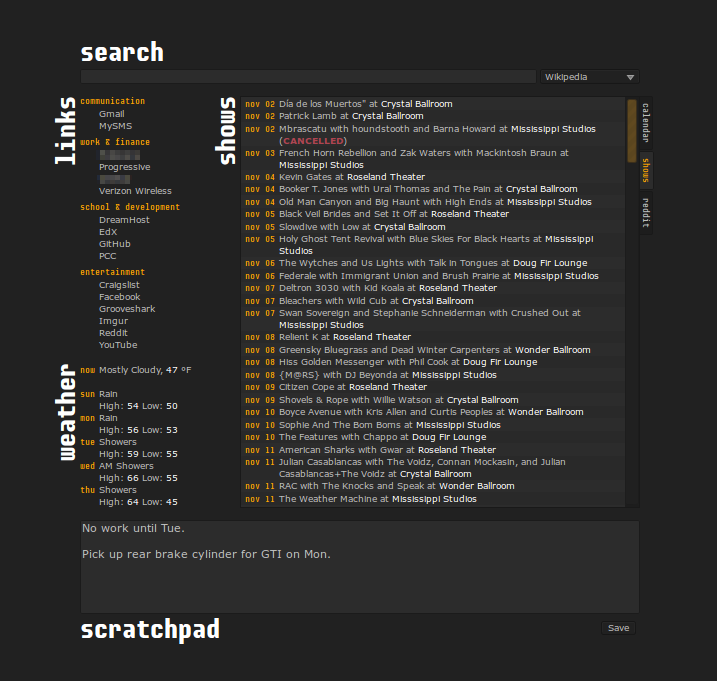
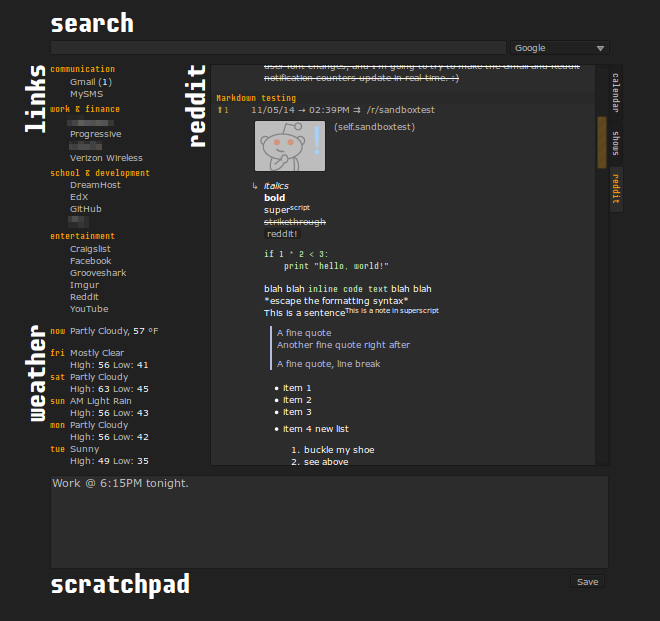
updates 11-07-2014

diff --git a/homepage/css/style.css b/homepage/css/style.css
@@ -1,8 +1,8 @@
 /* body, wrapper & grid foundation ---------------------------------- */
   * { line-height: 12px }
-  body { background: #212121; color: #BDBDBD; font: 7pt "Verdana"; margin: 0; padding: 18px 0 18px 0 }
+  body { background: #212121; color: #BDBDBD; font: 7pt "Verdana"; margin: 0; padding: 1.5em 0 1.5em 0 }
   div.wrapper { width: 100%; text-align: center }
-  div.grid { text-align: left; width: 560px; margin: 0 24px 0 24px }
+  div.grid { text-align: left; width: 560px; margin: 0 2em 0 2em }
 /* display types ---------------------------------------------------- */
   .table-row { display: table-row }
   .table-cell { display: table-cell }
@@ -11,10 +11,9 @@
   .inline, span.reddit-comment a { display: inline }
   #feed-loading, #feed-error-wrapper { display: none }
 /* dimensions ------------------------------------------------------- */
-  div.row-2 { height: 410px } /* changes the height of row 2 and it's column children */
-  div.label-vert { height: 0px }
-  div.tabs li { height: 12px }
+  div.label-vert { height: 0 }
   div.tabs { height: 14px }
+  div.tabs li { height: 12px }
   div.feed-tabbed iframe { height: 100% }
   div.col-1, div.col-2, div.feed-tabbed, div.feed-loading, div.feed-error-wrapper, div.feed-error { height: inherit }
   div.feed-shows div.table-cell, div.feed-reddit div.table-cell { width: 30px }
@@ -38,45 +37,52 @@
   div.col-1 div.label-vert { top: 80px; left: -108px }
   div.col-2 div.label-vert { top: 200px; left: -228px }
 /* margins & padding ------------------------------------------------ */
-  h1, h2, h3, ul, strong, div.feed-reddit blockquote { margin: 0 }
-  span.reddit-icon img { margin: 6px 0 0 0 }
-  div.feed-reddit p:first-child, span.reddit-comment pre:first-child, span.reddit-comment ul:first-child { margin-top: 0 }
-  div.row-3 iframe { margin-top: 2px }
-  div.scratchpad-wrapper button { margin-top: 6px }
-  div.row-2, div.row-3 { margin-top: 12px }
+  h1, h2, h3, ul, strong, div.feed-reddit blockquote, span.reddit-post p { margin: 0 }
+  span.reddit-icon img { margin: 0.5em 0 0 0 }
+  div.feed-reddit p:first-child, span.reddit-comment pre:first-child, span.reddit-comment ul:first-child, span.reddit-comment ul + p, span.reddit-comment p { margin-top: 0 }
+  div.row-3 iframe { margin-top: 0.16em }
+  div.scratchpad-wrapper button { margin-top: 0.5em }
+  div.row-2, div.row-3, span.reddit-comment hr { margin-top: 1em }
   div.tabs li { margin-right: 1px }
   div.feed-reddit p, span.reddit-comment pre:last-child, span.reddit-comment ul:last-child { margin-bottom: 0 }
-  span.reddit-icon img.post-link { margin-bottom: 6px }
-  span.reddit-comment blockquote { margin-left: 4px }
-  span.reddit-comment ul { margin-left: 24px }
+  span.reddit-icon img.post-link, span.reddit-comment ul li p { margin-bottom: 0.5em }
+  span.reddit-comment p { margin-bottom: 0.8em }
+  span.reddit-comment hr { margin-bottom: 1em}
+  span.reddit-comment blockquote { margin-left: 0.55em }
+  span.reddit-comment ul { margin-left: 2em }
   ul { padding: 0 }
-  div.list-links ul { padding: 0px 6px 6px 17px }
-  div.feed-weather div.table-cell, span.reddit-comment blockquote { padding: 0 0 0 4px }
-  div.feed-shows div.table-cell { padding: 0 2px 0 4px }
-  div.feed-reddit div.table-cell, div.tabs li, a.reddit-title-link { padding: 0 4px 0 4px }
-  h3 { padding: 6px 4px 6px 4px }
-  span.reddit-comment, span.reddit-post { padding: 6px 10px 6px 4px }
-  span.reddit-comment ul { padding: 6px 0 6px 0 }
-  div.feed-shows li a { padding: 0 10px 0 2px }
-  a { padding: 0 2px 0 2px }
-  div.feed-error { padding: 6px 28px 6px 28px }
+  div.list-links ul { padding: 0 0.5em 0.5em 1.85em }
+  div.feed-weather div.table-cell, span.reddit-comment blockquote { padding: 0 0 0 0.55em }
+  div.feed-shows div.table-cell { padding: 0 0.275em 0 0.55em }
+  div.feed-reddit div.table-cell, div.tabs li, a.reddit-title-link { padding: 0 0.55em 0 0.55em }
+  h3 { padding: 0.25em 0.16em 0.25em 0.16em }
+  span.reddit-comment, span.reddit-post { padding: 0.5em 0.833em 0 0.55em }
+  span.reddit-comment ul { padding: 0.5em 0 0.5em 0 }
+  div.feed-shows li a { padding: 0 0.833em 0 0.275em }
+  a { padding: 0 0.275em 0 0.275em }
+  div.feed-error { padding: 0.5em 2.33em 0.5em 2.33em }
+  span.reddit-comment th, span.reddit-comment td { padding: 0.16em 0.55em 0.16em 0.55em }
   span.reddit-comment pre:first-child, span.reddit-comment ul:first-child { padding-top: 0 }
   div.tabs li.tabs-selected, li.tabs-selected > a { padding-top: 1px }
-  div.scratchpad-wrapper { padding-right: 4px }
-  div.weather-error { padding-right: 4px }
+  div.scratchpad-wrapper { padding-right: 0.55em }
+  div.weather-error { padding-right: 0.55em }
   span.reddit-comment pre:last-child, span.reddit-comment ul:last-child { padding-bottom: 0 }
-  div.list-links { padding-bottom: 6px }
+  span.reddit-post p { padding-bottom: 0.33em }
+  div.list-links { padding-bottom: 0.5em }
+  div.weather-now { padding-bottom: 1em }
 /* borders ---------------------------------------------------------- */
   div.feed-tabbed, div.tabs li { border: 1px solid #191919 }
   input, textarea { border: 1px solid #1B1B1B }
   span.reddit-icon img { border: 1px solid #212121 }
-  span.reddit-icon a:hover img { border: 1px solid #3C3C3C }
+  span.reddit-icon a:hover img { border: 1px solid #96691A }
   span.reddit-comment blockquote { border-left: 2px solid #B5BAE1 }
+  span.reddit-comment hr { border-style: solid }
+  span.reddit-comment th, span.reddit-comment td { border: 1px solid #3C3C3C }
   div.tabs li { -webkit-border-radius: 2px 2px 0 0; -moz-border-radius: 2px 2px 0 0; border-radius: 2px 2px 0 0 }
-  span.reddit-comment a, span.reddit-post a, span.reddit-icon img, h3 a, a.reddit-sub, * input, * textarea, div.feeds { -webkit-border-radius: 2px; -moz-border-radius: 2px; border-radius: 2px }
+  span.reddit-comment table, span.reddit-comment a, span.reddit-post a, span.reddit-icon img, h3 a, a.reddit-sub, * input, * textarea, div.feeds, span.reddit-comment hr { -webkit-border-radius: 2px; -moz-border-radius: 2px; border-radius: 2px }
 /* background colors & images --------------------------------------- */
   div.feed-shows, div.feed-reddit, input, textarea, div.tabs li.tabs-selected, li.tabs-selected > a, div.feed-loading, div.feed-error-wrapper { background: #2C2C2C }
-  div.feed-shows li:nth-child(even), a.reddit-title-link { background: #292929 }
+  div.feed-shows li:nth-child(even), span.reddit-comment th, span.reddit-comment tr:nth-child(even), a.reddit-title-link { background: #292929 }
   div.tabs li { background: #191919 }
   div.tabs li.tabs-unselected, li.tabs-unselected > a { background: #1D1D1D }
   span.reddit-comment a, span.reddit-post a { background: #212121 }
@@ -109,7 +115,13 @@
   span.reddit-zerovote { color: #7C7176 }
   span.reddit-upvote { color: #B4913F }
   span.reddit-dagger { color: #E1B5BA }
-  span.reddit-gold { color: #E1DCB5 }
+  span.reddit-gold { color: #BDBDBD }
+  span.reddit-goldstar { color: #E1DCB5 }
+  span.reddit-strike { color: #FFF; text-decoration: line-through }
+  span.reddit-striketext { color: #BDBDBD }
+  span.reddit-comment code { color: #bae1b5 }
+  span.reddit-comment blockquote { color: #B5BAE1 }
+  span.reddit-comment hr { color: #4C4C4C }
   div.tabs li.tabs-selected, li.tabs-selected > a, a:hover, a:hover > em, a:hover > span, h2, h3, h3 a, strong, span.reddit-title { color: #FFA203 }
   h3 a { color: #FFA203 !important }
   a, div.tabs li.tabs-unselected, li.tabs-unselected > a { color: #BDBDBD }
@@ -122,7 +134,7 @@
   div.scratchpad-wrapper-chrome-hack { padding-right: 6px }
   select.scratchpad-wrapper-chrome-hack { border: 1px solid #191919; -webkit-border-radius: 2px; border-radius: 2px; background: #212121 }
   select.scratchpad-wrapper-chrome-hack:hover { border: 1px solid #2C2C2C; background: #3C3C3C }
-  div.scratchpad-wrapper-chrome-hack button { border: 1px solid #191919; -webkit-border-radius: 3px; border-radius: 3px; background: #212121; margin-top: 4px; margin-right: -4px }
+  div.scratchpad-wrapper-chrome-hack button { border: 1px solid #191919; -webkit-border-radius: 3px; border-radius: 3px; background: #212121; margin-top: 0.33em; margin-right: -0.33em }
   div.scratchpad-wrapper-chrome-hack button:hover { border: 1px solid #2C2C2C; background: #3C3C3C }
   ::-webkit-scrollbar { width: 12px; height: 12px; background: #212121 }
   ::-webkit-scrollbar-track { -webkit-border-radius: 2px }

diff --git a/homepage/plugins/functions.php b/homepage/plugins/functions.php
@@ -1,10 +1,20 @@
 <?php
 include "lastRSS.php";
 
+function row2heightvar($height) {
+  // if height value supplied and is given in px or em, then set it
+  if ($height != false && (substr($height, -2) == "em" || substr($height, -2) == "px")) {
+    echo "height: $height;";
+  } else {
+    // height not or incorrectly set, go default
+    echo "height: 400px;";
+  }
+}
+
 function encodeURIComponent($str) {
-    // encodes strings so they are URL friendly
-    $revert = array('%21'=>'!', '%2A'=>'*', '%27'=>"'", '%28'=>'(', '%29'=>')');
-    return strtr(rawurlencode($str), $revert);
+  // encodes strings so they are URL friendly
+  $revert = array('%21'=>'!', '%2A'=>'*', '%27'=>"'", '%28'=>'(', '%29'=>')');
+  return strtr(rawurlencode($str), $revert);
 }
 
 function detectTabCookie($cookievalue, $tabarray, $customerrors) {
@@ -97,7 +107,7 @@ function redditUnreadCount($feed, $user) {
   // check if necessary values were passed
   if ($feed != false && $user != false) {
     $rss = new lastRSS;
-    $rss_temp = $rss->get("http://www.reddit.com/message/unread/.rss?feed=$feed&user=$user");
+    $rss_temp = $rss->get("https://www.reddit.com/message/unread/.rss?feed=$feed&user=$user");
     // if unread count higher than 0, display counter
     if ($rss_temp[items_count] > 0) {
       echo " (<em>$rss_temp[items_count]</em>)";
@@ -141,9 +151,9 @@ function weatherForecast($woeid, $tempunit, $cachetime) {
 
         // give it the style we want
         $item[description] = preg_replace("', (.*?) 'si", ", <em>$1</em> &deg;", $item[description]);
-        $item[description] = str_replace("<b>Current Conditions:</b><br />\n", "                <div class=\"table-row\"><strong>now</strong><div class=\"table-cell\">", $item[description]);
+        $item[description] = str_replace("<b>Current Conditions:</b><br />\n", "                <div class=\"weather-now\"><div class=\"table-row\"><strong>now</strong><div class=\"table-cell\">", $item[description]);
         $item[description] = str_replace("<br />", "</em></div></div>", $item[description]);
-        $item[description] = str_replace("<BR />\n<BR /><b>Forecast:</b><BR />\n", "</div></div><br />\n", $item[description]);
+        $item[description] = str_replace("<BR />\n<BR /><b>Forecast:</b><BR />\n", "</div></div></div>\n", $item[description]);
         $item[description] = preg_replace("'(Mon|Tue|Wed|Thu|Fri|Sat|Sun) - 'esi", "'<div class=\"table-row\"><strong>'.strtolower('$1').'</strong><div class=\"table-cell\">'", $item[description]);
         $item[description] = str_replace(" High: ", "<br />High: <em>", $item[description]);
         $item[description] = str_replace(" Low: ", "</em> Low: <em>", $item[description]);
@@ -270,7 +280,7 @@ function feedReddit($feed, $user, $limit, $timesystem, $datesystem) {
   // check if necessary values were passed
   if ($feed != false && $user != false) {
     // check if a history limit was specified
-    if ($limit != false) {
+    if ($limit != false && is_int($limit)) {
       // if the history limit was set to over 100, default to 100,
       // and shame on you for not reading my configuration comments
       if ($limit > 100) {
@@ -392,6 +402,10 @@ function feedReddit($feed, $user, $limit, $timesystem, $datesystem) {
           $item[body_html] = str_replace("<a href=\"/r/", "<a href=\"http://www.reddit.com/r/", $item[body_html]);
           $item[body_html] = str_replace("<a href=\"/u/", "<a href=\"http://www.reddit.com/u/", $item[body_html]);
           $item[body_html] = preg_replace("'(<div class=\"md\">|</div>)'si", "", $item[body_html]);
+          $item[body_html] = str_replace("<table>", "<p><table>", $item[body_html]);
+          $item[body_html] = str_replace("</table>", "</table></p>", $item[body_html]);
+          $item[body_html] = str_replace("<del>", "<span class=\"reddit-strike\"><span class=\"reddit-striketext\">", $item[body_html]);
+          $item[body_html] = str_replace("</del>", "</span></span>", $item[body_html]); 
 
           // start to print the comment
           echo "      <a href=\"http://www.reddit.com/$item[link_id]\" title=\"$item[link_title]\" alt=\"$item[link_title]\" class=\"block reddit-title-link\"><span class=\"reddit-title\">$item[link_title]</span></a>\n";
@@ -429,7 +443,7 @@ function feedReddit($feed, $user, $limit, $timesystem, $datesystem) {
           }
           
           echo "            </div>\n";
-          echo "            <span class=\"block\">$shortdate &#8594; <a href=\"http://www.reddit.com/r/$item[subreddit]\" class=\"reddit-sub\">/r/$item[subreddit]</a></span>\n";
+          echo "            <span class=\"block\">$shortdate &#8649; <a href=\"http://www.reddit.com/r/$item[subreddit]\" class=\"reddit-sub\">/r/$item[subreddit]</a></span>\n";
           echo "            <div class=\"table-row\"><span class=\"table-cell reddit-icon\">&#8627;</span><span class=\"table-cell reddit-comment\">$item[body_html]</span></div>\n";
           echo "          </li>\n";
           echo "        </ul>\n";
@@ -443,7 +457,7 @@ function feedReddit($feed, $user, $limit, $timesystem, $datesystem) {
           // sort out our post thumbnails
           if ($item[thumbnail] == "self") {
             // post is a self-post
-            $imageThumbnail = "<img src=\"http://i.imgur.com/fYM6L7b.png\" class=\"post-link\">";
+            $imageThumbnail = "<img src=\"http://i.imgur.com/fYM6L7b.png\">";
           } else {
             if ($item[thumbnail] == "" || $item[thumbnail] == "default") {
               // post thumbnail is unavailable or default
@@ -458,9 +472,9 @@ function feedReddit($feed, $user, $limit, $timesystem, $datesystem) {
           $commentCount = "";
           if ($item[num_comments] != 0) {
             if ($item[num_comments] > 1) {
-              $commentCount = "<br />&#8594; <a href=\"http://www.reddit.com$item[permalink]\"><em>$item[num_comments]</em> comments</a>";
+              $commentCount = "<p>&#8594; <a href=\"http://www.reddit.com$item[permalink]\"><em>$item[num_comments]</em> comments</a></p>";
             } else {
-              $commentCount = "<br />&#8594; <a href=\"http://www.reddit.com$item[permalink]\"><em>$item[num_comments]</em> comment</a>";
+              $commentCount = "<p>&#8594; <a href=\"http://www.reddit.com$item[permalink]\"><em>$item[num_comments]</em> comment</a></p>";
             }
           }
           
@@ -500,8 +514,8 @@ function feedReddit($feed, $user, $limit, $timesystem, $datesystem) {
           }
           
           echo "          </div>\n";
-          echo "          <span class=\"block\">$shortdate &#8594; <a href=\"http://www.reddit.com/r/$item[subreddit]\" class=\"reddit-sub\">/r/$item[subreddit]</a></span>\n";
-          echo "          <div class=\"table-row\"><div class=\"table-row\"><span class=\"table-cell reddit-icon\"><a href=\"$item[url]\">$imageThumbnail</a></span><span class=\"table-cell reddit-post\">($item[domain])$commentCount</span></div></div>\n";
+          echo "          <span class=\"block\">$shortdate &#8649; <a href=\"http://www.reddit.com/r/$item[subreddit]\" class=\"reddit-sub\">/r/$item[subreddit]</a></span>\n";
+          echo "          <div class=\"table-row\"><div class=\"table-row\"><span class=\"table-cell reddit-icon\"><a href=\"$item[url]\">$imageThumbnail</a></span><span class=\"table-cell reddit-post\"><p>($item[domain])</p>$commentCount</span></div></div>\n";
           
           // if the post is a self/text post, we also want to print the
           // text it contained
@@ -518,6 +532,10 @@ function feedReddit($feed, $user, $limit, $timesystem, $datesystem) {
             $item[selftext_html] = str_replace("</em>", "</i>", $item[selftext_html]);
             $item[selftext_html] = str_replace("<strong>", "<b>", $item[selftext_html]);
             $item[selftext_html] = str_replace("</strong>", "</b>", $item[selftext_html]);
+            $item[selftext_html] = str_replace("<table>", "<p><table>", $item[selftext_html]);
+            $item[selftext_html] = str_replace("</table>", "</table></p>", $item[selftext_html]);
+            $item[selftext_html] = str_replace("<del>", "<span class=\"reddit-strike\"><span class=\"reddit-striketext\">", $item[selftext_html]);
+            $item[selftext_html] = str_replace("</del>", "</span></span>", $item[selftext_html]); 
             $item[selftext_html] = str_replace("<a href=\"/r/", "<a href=\"http://www.reddit.com/r/", $item[selftext_html]);
             $item[selftext_html] = str_replace("<a href=\"/u/", "<a href=\"http://www.reddit.com/u/", $item[selftext_html]);
             $item[selftext_html] = preg_replace("'(<!-- SC_ON -->|<!-- SC_OFF -->|<div class=\"md\">|</div>)'si", "", $item[selftext_html]);

diff --git a/homepage/index.php b/homepage/index.php
@@ -34,7 +34,7 @@
             </select>
           </form>
         </div>
-        <div id="row-2" class="row-2">
+        <div id="row-2" class="row-2" style="<?php echo row2heightvar($row2height); ?>">
           <div id="col-1" class="table-cell col-1">
             <div id="col-1-row-1" class="col-1-row-1">
               <div class="label-vert">
@@ -95,7 +95,7 @@
           </div>
         </div>
         <div class="row-3">
-          <iframe id="iframe-scratchpad" src="scratchpad.php" frameborder="0" scrolling="no" seamless></iframe>
+          <iframe id="iframe-scratchpad" src="scratchpad.php" width="100%" frameborder="0" scrolling="no" seamless></iframe>
         </div>
       </div>
     </div>

diff --git a/homepage/settings.php b/homepage/settings.php
@@ -58,7 +58,7 @@
   // number of reddit comments in history to show in feed
   // -- the higher you go, the more noticible the lag in load time
   // ** max is 100 **
-  $redditFeedLimit = 10;
+  $redditFeedLimit = 25;
 
   // venues to use in shows feed -- visit
   // http://acousti.co/songkick
@@ -78,6 +78,11 @@
   // because the feeds are notoriously slow, and don't
   // get updated frequently
   $showsCacheTime = 10800;
+  
+  // height in px or em you want the #row-2 columns to be,
+  // i.e. the links + weather feed and the tabbed feeds
+  // -- default is 400px
+  $row2height = "400px";
 
   // height in rows you want the scratchpad to be
   // -- default is 6

diff --git a/homepage/README.md b/homepage/README.md
@@ -6,6 +6,22 @@
 
 ---
 
+##11/07/2014
+
++ Added [$row2height](https://github.com/heru-ra/jezebel/blob/master/homepage/settings.php#L82-L85) var to [./settings.php](https://github.com/heru-ra/jezebel/blob/master/homepage/settings.php), which now sets the height of  
+  the #row-2 columns and their children, instead of being done in  
+  ./css/style.css  
++ Added function [row2heightvar($height)](https://github.com/heru-ra/jezebel/blob/master/homepage/plugins/functions.php#L4-L12) to [./plugins/functions.php](https://github.com/heru-ra/jezebel/blob/master/homepage/plugins/functions.php) to
+  handle above mentioned addition.
++ Converted many height measurements in [./css/style.css](https://github.com/heru-ra/jezebel/blob/master/homepage/css/style.css) from *px* to *em*,  
+  to make font and text changes easier and everything more adaptable.  
++ Further styled comment and self-post text contained in the Reddit feed  
+  and reworked a few minor aspects of it's layout.  
++ Changed formatting and hierarchy of a few php/html elements and css  
+  classes to accomodate previously mentioned changes, and to look better.
+
+---
+
 ##11/01/2014
 
 **CSS**
